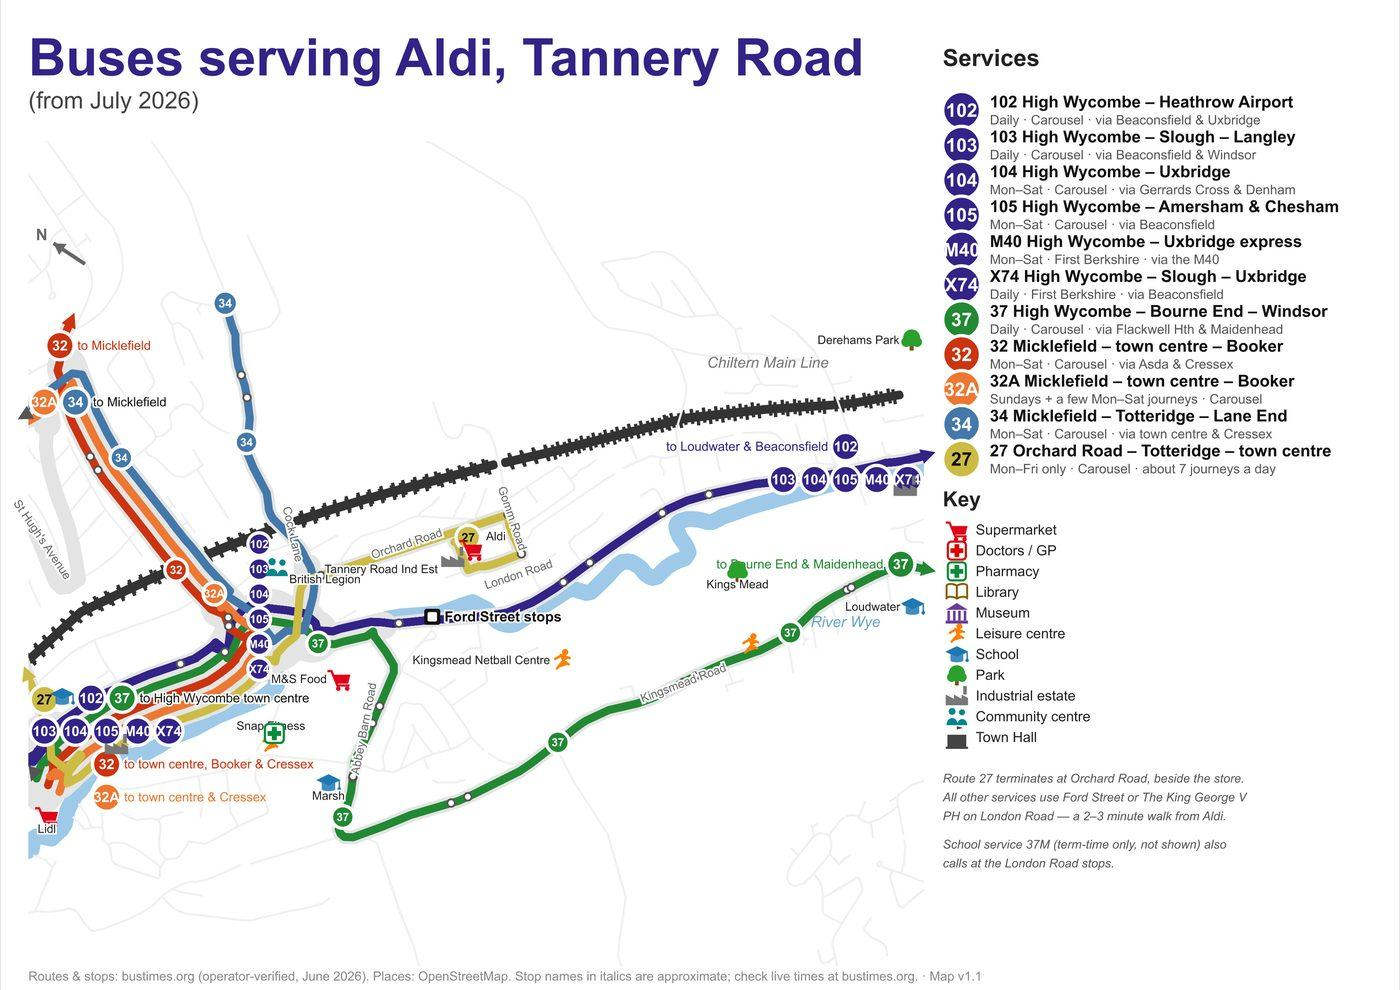
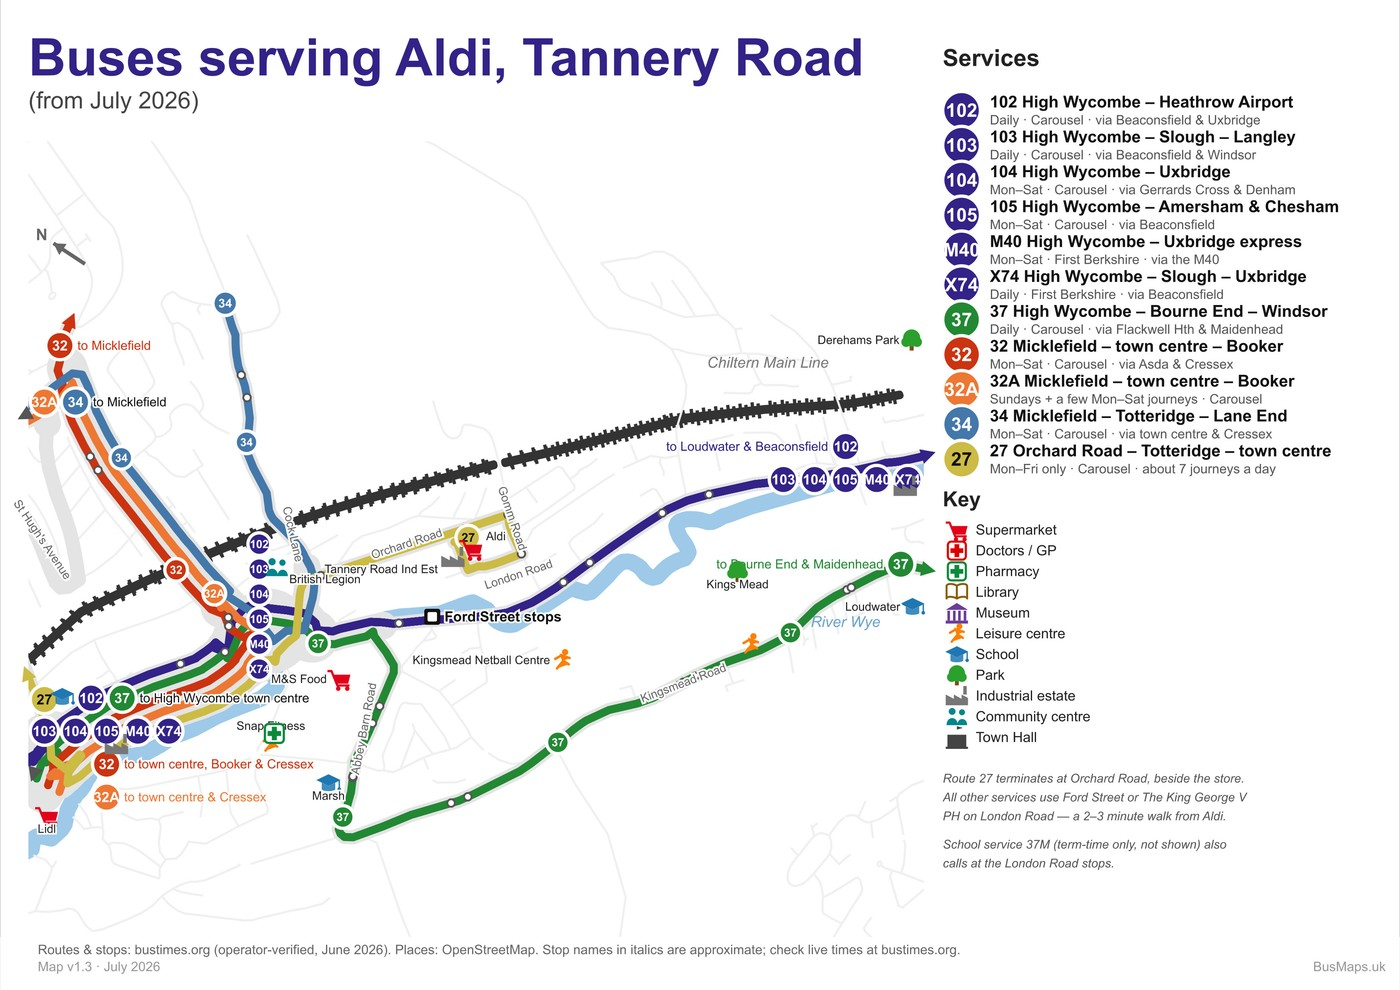
Rollout Phase 8: refresh example gallery images, fix stale town count
The example gallery (examples.html, index.html) showed static JPGs generated
2026-07-23/08-02, predating the same-day rollout's footer.js vendoring - they
still had the old inline attribution sentence instead of the new BusMaps.uk-
branded footer band, an inconsistency a visitor could spot by comparing this
page to any live published map. Regenerated all 8 gallery images (St Ives
area, High Wycombe area, High Wycombe Aldi place, St Neots Town Centre place)
from the current rollout builds, matching the existing 1400x990 convention.

Also fixed opportunity.html's "Seven towns and five places have been built
with it" - Ramsey was auto-drafted since that copy was written, making it an
eighth built town, but its S6 verification came back BLOCKED (a pre-documented
gap, not yet trustworthy) and it's excluded from the portal. Per Peter: keep
the count at seven and note the eighth is in progress rather than either
overclaiming or silently dropping it.

npm test and npm run verify both still pass (neither touches these files).

diff --git a/public/opportunity.html b/public/opportunity.html
@@ -57,7 +57,8 @@
           <div class="ico">🗺</div>
           <h3>A working engine</h3>
           <p><strong>Seven towns and five places</strong> have been built with it, from a small
-            market town to High Wycombe. It is deterministic: the same data always produces the same
+            market town to High Wycombe, with an eighth town drafted and going through verification
+            before it joins them. It is deterministic: the same data always produces the same
             sheet, byte for byte, with no network and no AI at drawing time — which is what makes a
             print file reproducible a year later.</p>
         </div>
